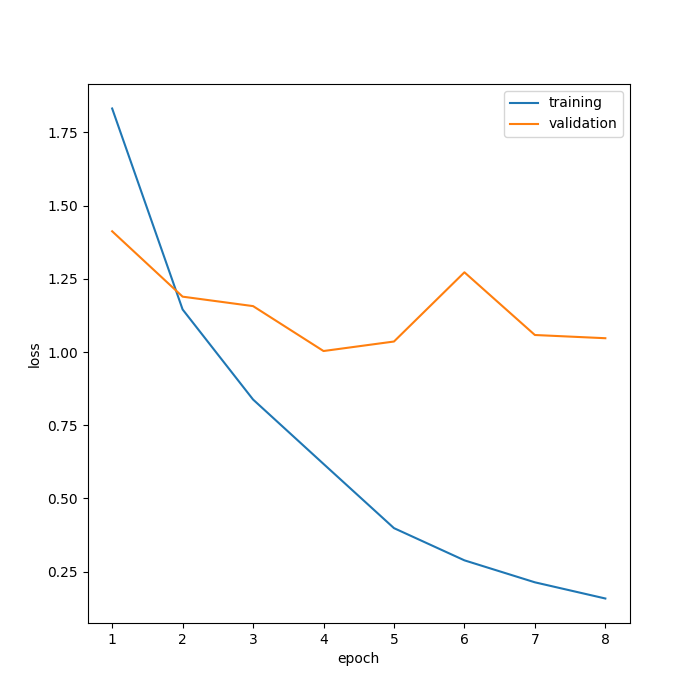
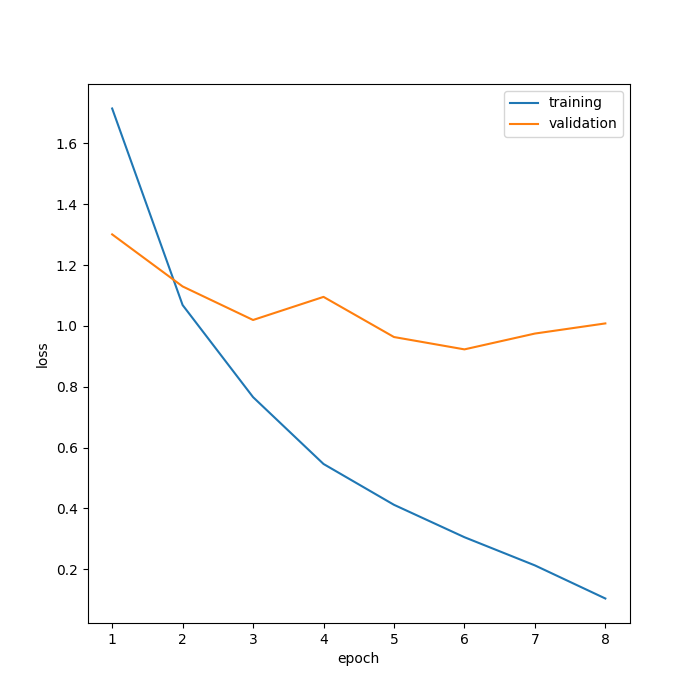
Updates ReadMe

diff --git a/README.md b/README.md
@@ -304,41 +304,41 @@ Creating a pipline as above will increase the accuracy to 49%.
             combined_features = self.main(combined_features)
             return combined_features
     ```
-    The combine model which uses the both test and image information has reached an accurancy of 76% which is one of the 
-    best results so far at the AiCore. The accuracy for the training sample reached 95% within the 8 epochs. 
+    The combine model which uses the both test and image information has reached an accurancy of 78% which is one of the 
+    best results so far at the AiCore. The accuracy for the training sample reached 97% within the 8 epochs. 
 
     ```code
     Epoch: 1
-    Training set: Average loss: 1.831565, Accuracy: 3394/8823 (38%)
-    Validation set: Average loss: 1.412253, Accuracy: 2037/3781 (54%)
+    Training set: Average loss: 1.714934, Accuracy: 3751/8823 (43%)
+    Validation set: Average loss: 1.301012, Accuracy: 2137/3781 (57%)
 
     Epoch: 2
-    Training set: Average loss: 1.145279, Accuracy: 5548/8823 (63%)
-    Validation set: Average loss: 1.189010, Accuracy: 2331/3781 (62%)
+    Training set: Average loss: 1.068653, Accuracy: 5727/8823 (65%)
+    Validation set: Average loss: 1.129872, Accuracy: 2394/3781 (63%)
 
     Epoch: 3
-    Training set: Average loss: 0.837704, Accuracy: 6487/8823 (74%)
-    Validation set: Average loss: 1.156728, Accuracy: 2428/3781 (64%)
+    Training set: Average loss: 0.765921, Accuracy: 6605/8823 (75%)
+    Validation set: Average loss: 1.019578, Accuracy: 2563/3781 (68%)
 
     Epoch: 4
-    Training set: Average loss: 0.617757, Accuracy: 7030/8823 (80%)
-    Validation set: Average loss: 1.003349, Accuracy: 2608/3781 (69%)
+    Training set: Average loss: 0.546157, Accuracy: 7284/8823 (83%)
+    Validation set: Average loss: 1.095542, Accuracy: 2612/3781 (69%)
 
     Epoch: 5
-    Training set: Average loss: 0.398511, Accuracy: 7695/8823 (87%)
-    Validation set: Average loss: 1.035803, Accuracy: 2674/3781 (71%)
+    Training set: Average loss: 0.411921, Accuracy: 7667/8823 (87%)
+    Validation set: Average loss: 0.963552, Accuracy: 2722/3781 (72%)
 
     Epoch: 6
-    Training set: Average loss: 0.288524, Accuracy: 7969/8823 (90%)
-    Validation set: Average loss: 1.272192, Accuracy: 2577/3781 (68%)
+    Training set: Average loss: 0.305380, Accuracy: 7955/8823 (90%)
+    Validation set: Average loss: 0.922950, Accuracy: 2855/3781 (76%)
 
     Epoch: 7
-    Training set: Average loss: 0.213483, Accuracy: 8230/8823 (93%)
-    Validation set: Average loss: 1.058057, Accuracy: 2811/3781 (74%)
+    Training set: Average loss: 0.212714, Accuracy: 8213/8823 (93%)
+    Validation set: Average loss: 0.974951, Accuracy: 2886/3781 (76%)
 
     Epoch: 8
-    Training set: Average loss: 0.158219, Accuracy: 8393/8823 (95%)
-    Validation set: Average loss: 1.047071, Accuracy: 2869/3781 (76%)
+    Training set: Average loss: 0.103855, Accuracy: 8544/8823 (97%)
+    Validation set: Average loss: 1.008297, Accuracy: 2935/3781 (78%)
     ```
 
     <img src="https://github.com/behzadh/Facebook_Marketplace_RRS/blob/main/plots/text_image_tensorboard.png" width="600">
